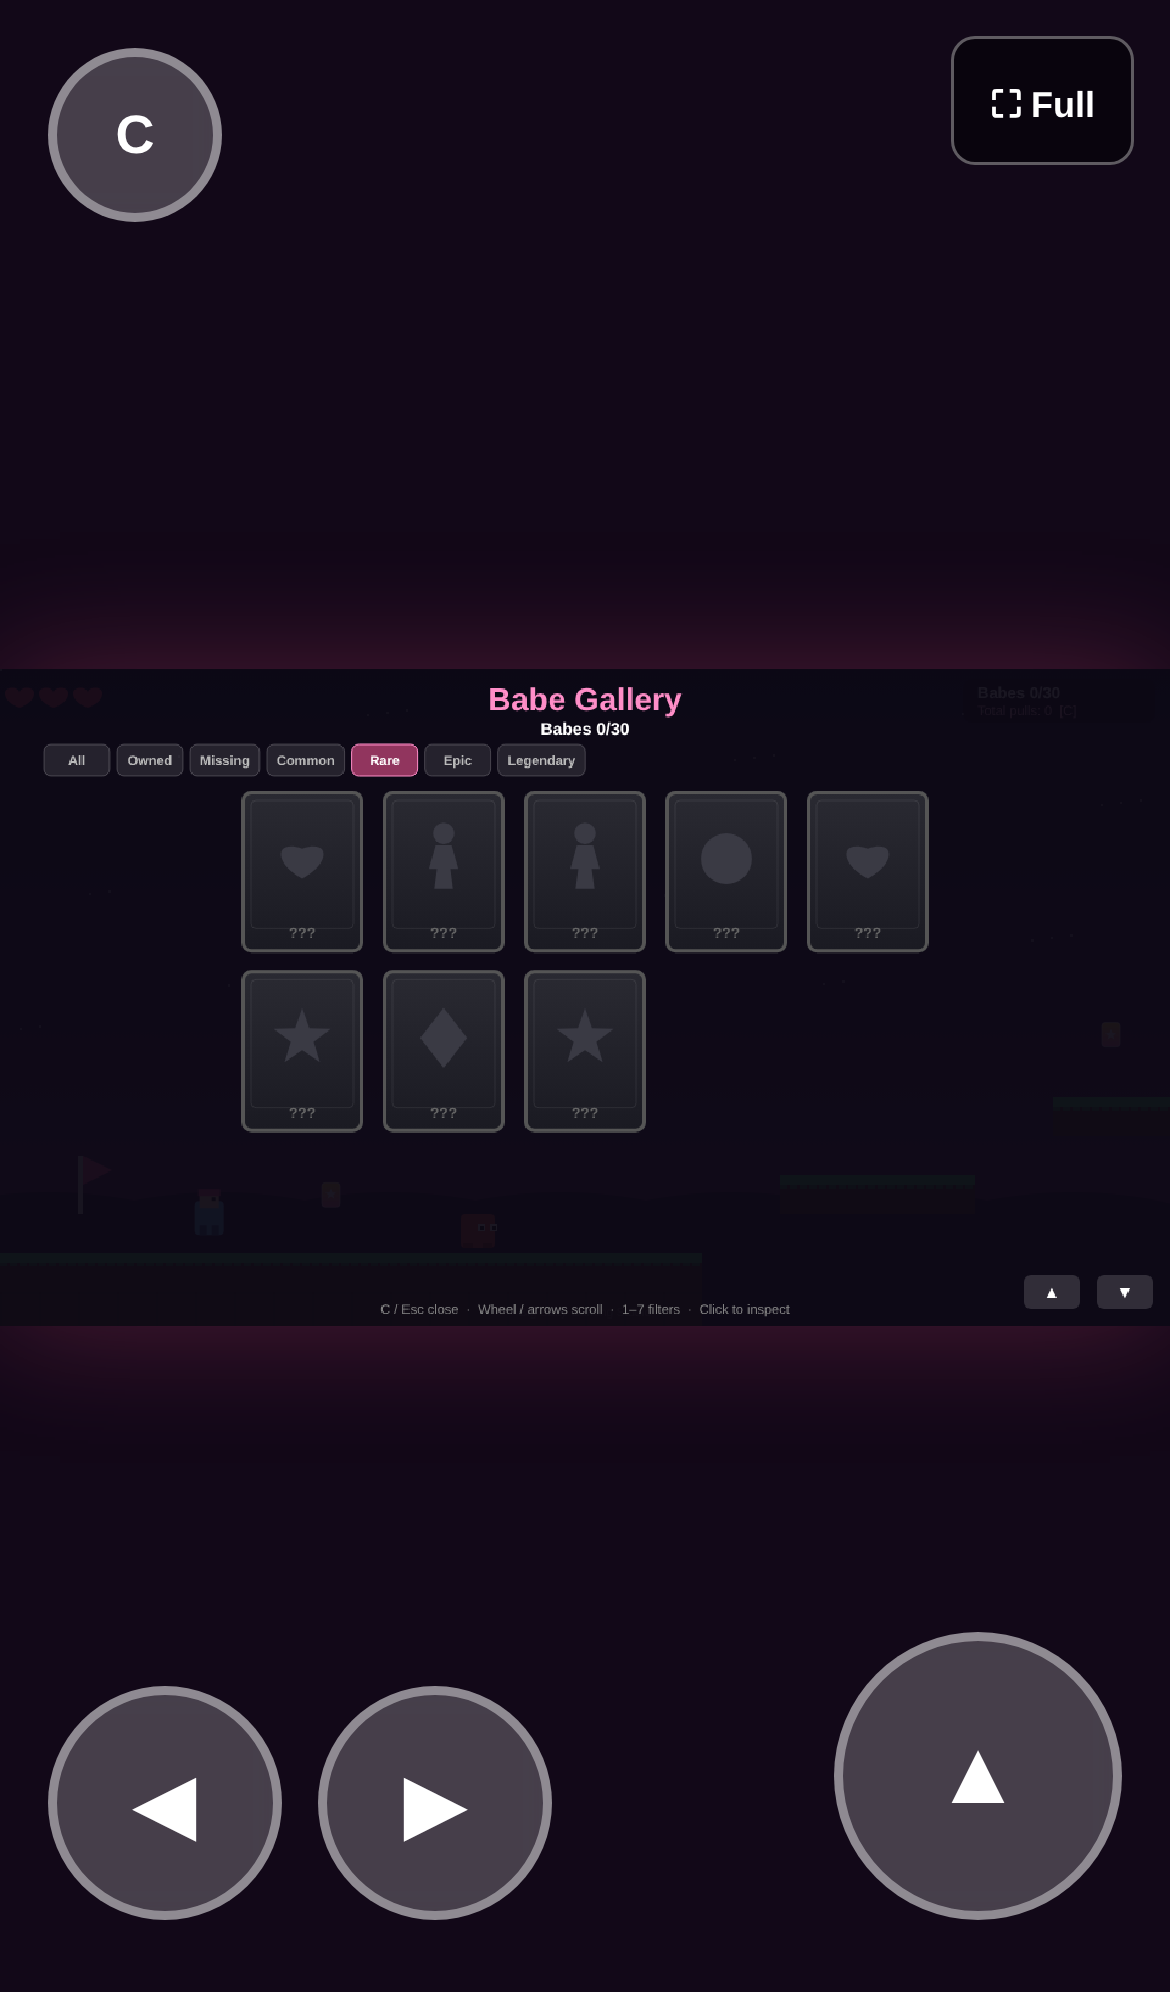
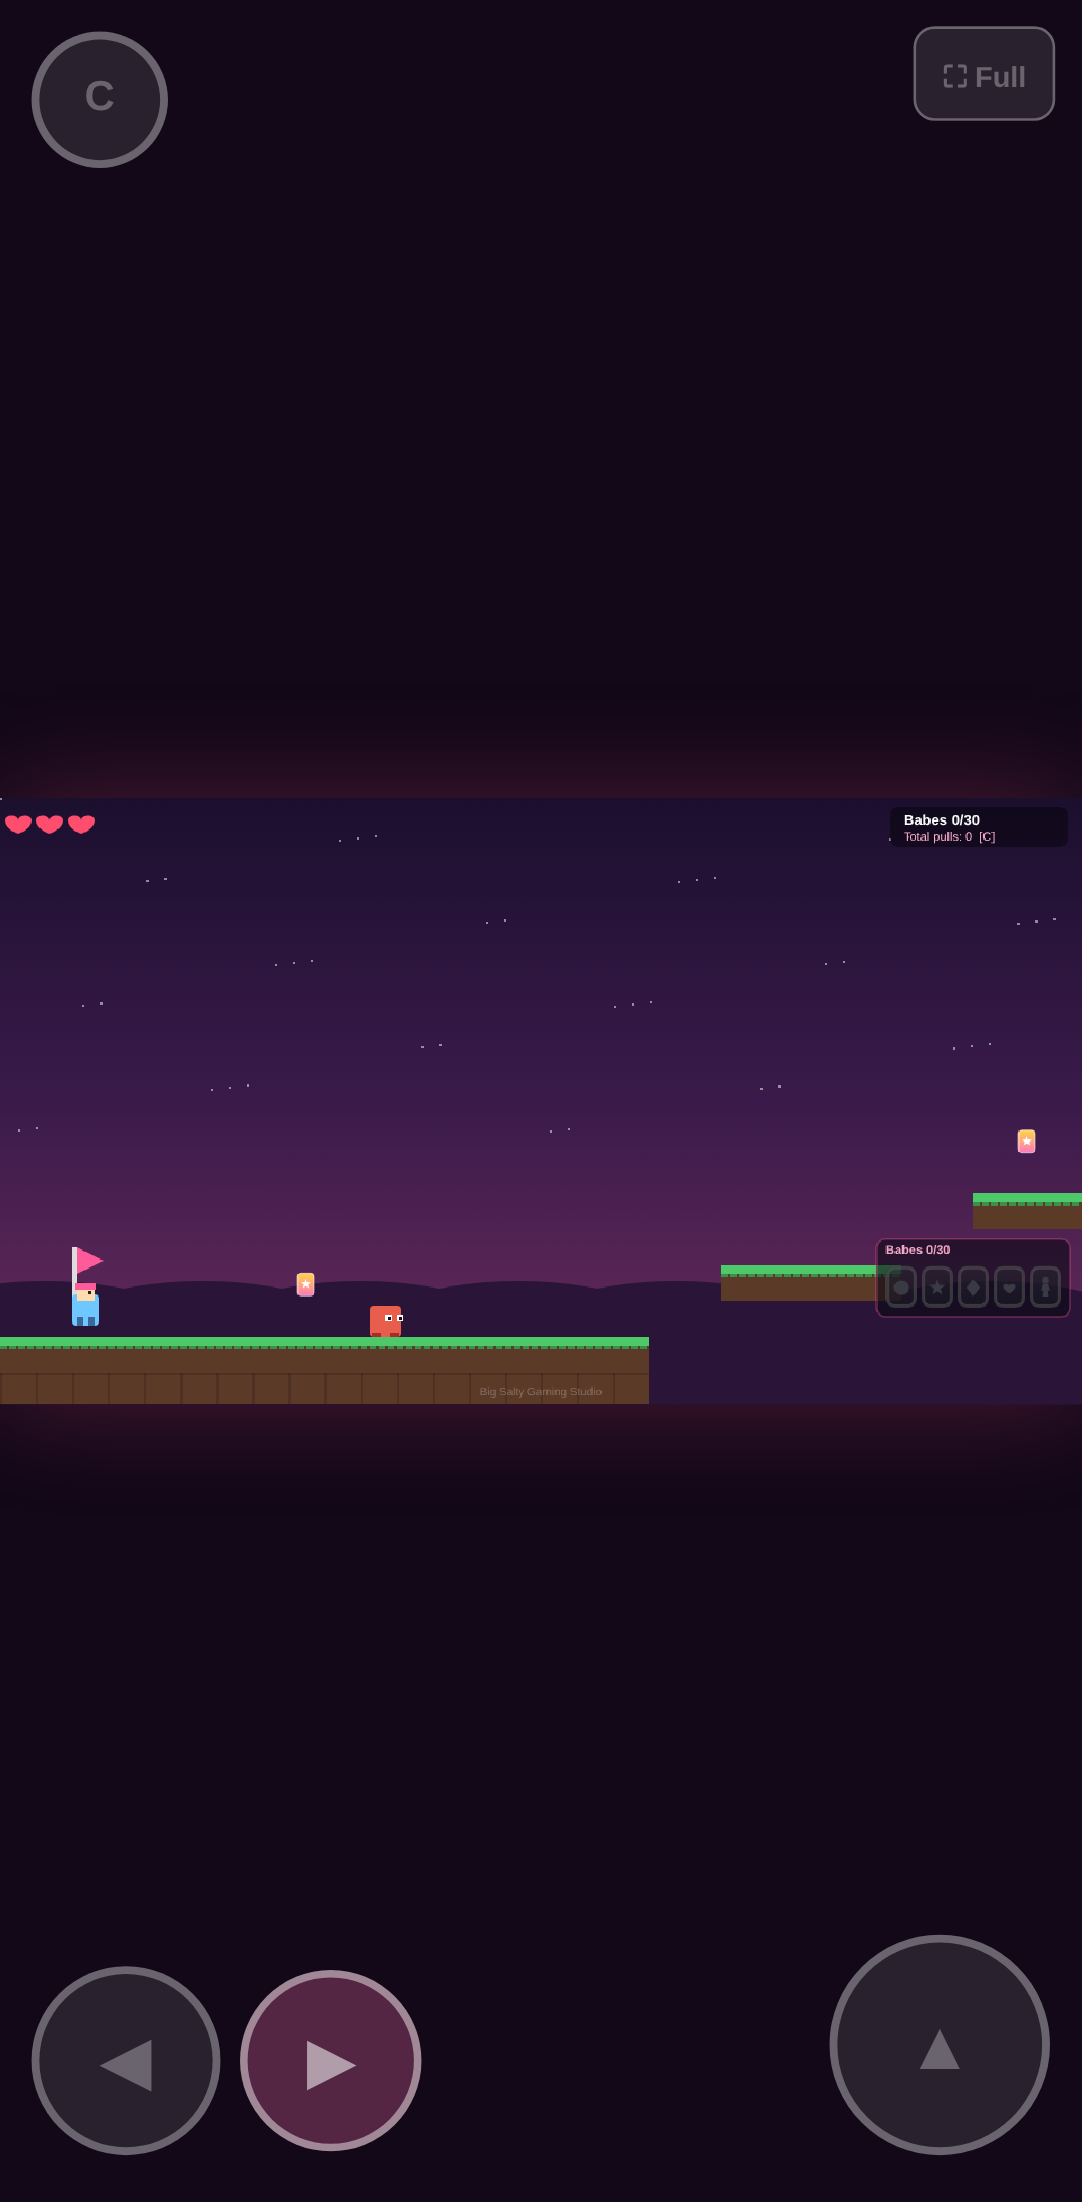
Fix enemy ground/collision, half-height stomp bounce, portrait UX
- Seat enemies on platform tops with gravity + ledge turns (no mid-air float)
- Stomp vs hurt uses prev-frame feet vs enemy top (hopper jump-into feet works)
- Side contact still hurts; reset prevY on respawn
- Stomp bounce half apex height: STOMP_V≈-339, STOMP_V_HELD≈-438 (×√½)
- Remove blocking rotate-phone overlay; title notes portrait or landscape OK
- Portrait button CSS + HUD tray lift; retake mobile shots

diff --git a/index.html b/index.html
@@ -105,34 +105,15 @@
   }
   #fsBtn.show { display: block; }
   #fsBtn:active { background: rgba(255,120,180,0.28); color: rgba(255,255,255,0.55); border-color: rgba(255,255,255,0.45); }
-  #rotateHint {
-    display: none;
-    position: absolute;
-    inset: 0;
-    z-index: 20;
-    background: rgba(18,8,24,0.92);
-    color: #ffb0d0;
-    flex-direction: column;
-    align-items: center;
-    justify-content: center;
-    text-align: center;
-    padding: 24px;
-    pointer-events: auto;
-    touch-action: none;
-  }
-  #rotateHint.show { display: flex; }
-  #rotateHint h2 { color: #ff5a9a; font-size: 22px; margin-bottom: 12px; }
-  #rotateHint p { font-size: 15px; max-width: 280px; line-height: 1.4; }
-  #rotateHint button {
-    margin-top: 18px;
-    padding: 12px 20px;
-    border-radius: 10px;
-    border: 2px solid #ff8ec8;
-    background: rgba(255,90,154,0.35);
-    color: #fff;
-    font-weight: bold;
-    font-size: 15px;
-    touch-action: none;
+  /* Portrait: keep controls usable without blocking the letterboxed canvas */
+  @media (orientation: portrait) {
+    .tbtn { width: 72px; height: 72px; font-size: 24px; }
+    #tJump { width: 84px; height: 84px; font-size: 26px; }
+    #tLeft  { left: max(12px, env(safe-area-inset-left)); bottom: max(18px, env(safe-area-inset-bottom)); }
+    #tRight { left: calc(max(12px, env(safe-area-inset-left)) + 78px); bottom: max(18px, env(safe-area-inset-bottom)); }
+    #tJump  { right: max(12px, env(safe-area-inset-right)); bottom: max(18px, env(safe-area-inset-bottom)); }
+    #tColl  { left: max(12px, env(safe-area-inset-left)); top: max(12px, env(safe-area-inset-top)); width: 52px; height: 52px; font-size: 16px; }
+    #fsBtn  { right: max(10px, env(safe-area-inset-right)); top: max(10px, env(safe-area-inset-top)); font-size: 11px; padding: 6px 10px; }
   }
 </style>
 </head>
@@ -146,11 +127,6 @@
     <button type="button" class="tbtn" id="tColl" aria-label="Babe gallery">C</button>
   </div>
   <button type="button" id="fsBtn" aria-label="Fullscreen">⛶ Full</button>
-  <div id="rotateHint">
-    <h2>Rotate your phone</h2>
-    <p>Hot Babe Collector plays best in landscape. Rotate for bigger controls — or tap below to play in portrait anyway.</p>
-    <button type="button" id="playPortrait">Play in portrait</button>
-  </div>
 </div>
 <script>
 "use strict";
@@ -321,8 +297,6 @@ window.addEventListener("wheel", e => {
 const isTouch = ("ontouchstart" in window) || navigator.maxTouchPoints > 0;
 const touchEl = document.getElementById("touch");
 const fsBtn = document.getElementById("fsBtn");
-const rotateHint = document.getElementById("rotateHint");
-let allowPortraitPlay = false;
 let gallerySwipeY0 = null;
 let gallerySwipeScroll0 = 0;
 
@@ -444,22 +418,8 @@ fsBtn.addEventListener("click", e => {
   if (!document.fullscreenElement && root.requestFullscreen) root.requestFullscreen().catch(() => {});
   else if (document.exitFullscreen) document.exitFullscreen();
 });
-document.getElementById("playPortrait").addEventListener("click", e => {
-  e.preventDefault();
-  allowPortraitPlay = true;
-  updateRotateHint();
-  ensureAudio();
-});
-
-function updateRotateHint() {
-  if (!isTouch) { rotateHint.classList.remove("show"); return; }
-  const portrait = window.innerHeight > window.innerWidth;
-  if (portrait && !allowPortraitPlay) rotateHint.classList.add("show");
-  else rotateHint.classList.remove("show");
-}
 window.addEventListener("orientationchange", () => {
-  allowPortraitPlay = false;
-  setTimeout(() => { fit(); updateRotateHint(); }, 200);
+  setTimeout(() => fit(), 200);
 });
 
 // ---------- Drawing helpers ----------
@@ -712,15 +672,25 @@ function makeCoins() {
 }
 
 // Enemies: type 'walker' | 'hopper'
+function enemyOnPlat(type, xTile, platY, w, h, extra) {
+  const top = platY * TILE;
+  return Object.assign({
+    type, x: xTile * TILE, y: top - h, w, h,
+    vx: 0, vy: 0, dir: 1, alive: true,
+    prevX: xTile * TILE, prevY: top - h,
+  }, extra || {});
+}
+
 function makeEnemies() {
+  // Seated on real platform tops; patrol ranges stay on that surface
   return [
-    { type:"walker", x:10*TILE, y:14*TILE, w:28, h:28, vx:60, dir:1, minX:2*TILE, maxX:16*TILE, alive:true },
-    { type:"walker", x:44*TILE, y:14*TILE, w:28, h:28, vx:70, dir:-1, minX:40*TILE, maxX:50*TILE, alive:true },
-    { type:"hopper", x:30*TILE, y:11*TILE, w:26, h:26, vx:40, dir:1, vy:0, groundY:13*TILE-26, minX:27*TILE, maxX:36*TILE, alive:true, hopT:0 },
-    { type:"walker", x:86*TILE, y:14*TILE, w:28, h:28, vx:80, dir:1, minX:80*TILE, maxX:94*TILE, alive:true },
-    { type:"hopper", x:71*TILE, y:11*TILE-26, w:26, h:26, vx:30, dir:-1, vy:0, groundY:11*TILE-26, minX:69*TILE, maxX:72*TILE, alive:true, hopT:0.5 },
-    { type:"walker", x:110*TILE, y:13*TILE-28, w:28, h:28, vx:55, dir:1, minX:109*TILE, maxX:113*TILE-4, alive:true },
-    { type:"hopper", x:104*TILE, y:15*TILE-26, w:26, h:26, vx:35, dir:1, vy:0, groundY:15*TILE-26, minX:99*TILE, maxX:106*TILE, alive:true, hopT:1.2 },
+    enemyOnPlat("walker", 10, 15, 28, 28, { vx: 60, dir: 1, minX: 2 * TILE, maxX: 16 * TILE }),
+    enemyOnPlat("walker", 44, 15, 28, 28, { vx: 70, dir: -1, minX: 40 * TILE, maxX: 50 * TILE }),
+    enemyOnPlat("hopper", 34, 13, 26, 26, { vx: 40, dir: 1, minX: 33 * TILE, maxX: 39 * TILE, hopT: 0 }),
+    enemyOnPlat("walker", 86, 15, 28, 28, { vx: 80, dir: 1, minX: 80 * TILE, maxX: 94 * TILE }),
+    enemyOnPlat("hopper", 70, 11, 26, 26, { vx: 30, dir: -1, minX: 69 * TILE, maxX: 72 * TILE, hopT: 0.5 }),
+    enemyOnPlat("walker", 110, 13, 28, 28, { vx: 55, dir: 1, minX: 109 * TILE, maxX: 114 * TILE - 4 }),
+    enemyOnPlat("hopper", 102, 15, 26, 26, { vx: 35, dir: 1, minX: 99 * TILE, maxX: 106 * TILE, hopT: 1.2 }),
   ];
 }
 
@@ -733,6 +703,9 @@ const MOVE_MAX = 260;
 const FRICTION = 1800;
 const JUMP_V = -620;
 const JUMP_CUT = 0.45;
+// Stomp bounce: HALF prior apex height → multiply |v| by √(1/2)
+const STOMP_V = -480 * Math.SQRT1_2;       // ~-339.4 (was -480)
+const STOMP_V_HELD = JUMP_V * Math.SQRT1_2; // ~-438.4 (was full JUMP_V)
 // Derived (full held jump): maxJumpH = v^2/(2g) ≈ 87.4px (~2.73 tiles).
 // Level design uses ≤2 tile rises (~64px ≈ 73% of max) for comfort.
 const COYOTE = 0.1;
@@ -776,6 +749,7 @@ const player = {
   vx: 0, vy: 0, onGround: false,
   facing: 1, coyote: 0, jumpBuf: 0,
   anim: 0, flash: 0, stun: 0, stompGrace: 0, fromStomp: false,
+  prevX: 64, prevY: 14 * TILE - 40,
 };
 
 function resetLevel(full) {
@@ -807,6 +781,7 @@ function resetLevel(full) {
   player.vx = 0; player.vy = 0;
   player.onGround = false;
   player.coyote = 0; player.jumpBuf = 0; player.stun = 0; player.stompGrace = 0; player.fromStomp = false;
+  player.prevX = player.x; player.prevY = player.y;
   cameraX = Math.max(0, player.x - W*0.35);
 }
 
@@ -850,6 +825,30 @@ function resolvePlayer(dt) {
 function groundUnder(px, feetY) {
   // Thin probe just below feet — true if a platform would catch a landing
   return !!solidAt(px, feetY, player.w, 6);
+}
+
+/** Platform top near feet supporting [x,x+w]; prefers the highest (smallest Y) match. */
+function platformTopNear(x, w, feetY) {
+  let best = null;
+  for (const p of platforms) {
+    const px = p.x * TILE, py = p.y * TILE, pw = p.w * TILE;
+    const overlap = Math.min(x + w, px + pw) - Math.max(x, px);
+    if (overlap < 6) continue;
+    if (py >= feetY - 4 && py <= feetY + 48) {
+      if (best == null || py < best) best = py;
+    }
+  }
+  if (best == null) {
+    for (const p of platforms) {
+      const px = p.x * TILE, py = p.y * TILE, pw = p.w * TILE;
+      const overlap = Math.min(x + w, px + pw) - Math.max(x, px);
+      if (overlap < 6) continue;
+      if (Math.abs(py - feetY) <= 8) {
+        if (best == null || py < best) best = py;
+      }
+    }
+  }
+  return best;
 }
 
 function hurtPlayer(fromX) {
@@ -1071,40 +1070,57 @@ function updatePlay(dt) {
     }
   }
 
-  // enemies
+  // enemies — gravity + ledge turns (never float mid-air)
   for (const e of enemies) {
     if (!e.alive) continue;
-    if (e.type === "walker") {
-      e.x += e.vx * e.dir * dt;
-      if (e.x < e.minX) { e.x = e.minX; e.dir = 1; }
-      if (e.x + e.w > e.maxX) { e.x = e.maxX - e.w; e.dir = -1; }
-    } else if (e.type === "hopper") {
-      e.hopT += dt;
-      e.x += e.vx * e.dir * dt;
-      if (e.x < e.minX) { e.x = e.minX; e.dir = 1; }
-      if (e.x + e.w > e.maxX) { e.x = e.maxX - e.w; e.dir = -1; }
-      e.vy += GRAV * dt * 0.85;
-      e.y += e.vy * dt;
-      if (e.y >= e.groundY) {
-        e.y = e.groundY;
-        e.vy = 0;
+    e.prevX = e.x;
+    e.prevY = e.y;
+
+    if (e.x < e.minX) { e.x = e.minX; e.dir = 1; }
+    if (e.x + e.w > e.maxX) { e.x = e.maxX - e.w; e.dir = -1; }
+
+    const feetY = e.y + e.h;
+    const aheadX = e.dir > 0 ? e.x + e.w - 2 : e.x - 4;
+    const aheadTop = platformTopNear(aheadX, 6, feetY);
+    if (aheadTop == null || Math.abs(aheadTop - feetY) > 10) e.dir *= -1;
+
+    e.x += e.vx * e.dir * dt;
+    if (e.x < e.minX) { e.x = e.minX; e.dir = 1; }
+    if (e.x + e.w > e.maxX) { e.x = e.maxX - e.w; e.dir = -1; }
+
+    e.vy = (e.vy || 0) + GRAV * dt * (e.type === "hopper" ? 0.85 : 1);
+    e.y += e.vy * dt;
+
+    const top = platformTopNear(e.x, e.w, e.y + e.h);
+    const onGround = top != null && (e.y + e.h) >= top - 1 && (e.y + e.h) <= top + 18 && e.vy >= 0;
+    if (onGround) {
+      e.y = top - e.h;
+      e.vy = 0;
+      if (e.type === "hopper") {
+        e.hopT = (e.hopT || 0) + dt;
         if (e.hopT > 1.1) { e.vy = -520; e.hopT = 0; }
       }
     }
 
     if (!aabb(player, e)) continue;
-    // Mario-style stomp: falling onto top → kill + bounce (no same-frame re-hit)
-    const stomping = player.vy > 40 && (player.y + player.h) <= (e.y + e.h * 0.55);
+
+    // Stomp if player was/is above (prev feet vs prev enemy top), even if enemy jumps up
+    const STOMP_TOL = 8;
+    const prevPlayerBottom = (player.prevY != null ? player.prevY : player.y) + player.h;
+    const prevEnemyTop = e.prevY != null ? e.prevY : e.y;
+    const fromAbove = prevPlayerBottom <= prevEnemyTop + STOMP_TOL;
+    // Vertical-dominant overlap with player clearly above (hopper jump-into-feet)
+    const playerAbove = player.y + player.h <= e.y + e.h * 0.55 && player.y < e.y;
+    const stomping = fromAbove || playerAbove;
+
     if (stomping) {
       e.alive = false;
-      // Sit on its head so we don't re-overlap as a side-hit next frame
       player.y = e.y - player.h;
       player.onGround = false;
-      // Bounce: solid pop; hold jump for full jump height
       const jumpHeld = keys[" "] || keys["arrowup"] || keys["w"];
-      player.vy = jumpHeld ? JUMP_V : -480;
-      player.stompGrace = 0.12; // blocks hurt; allows bounce-chain stomps
-      player.fromStomp = true;  // exempt JUMP_CUT until apex
+      player.vy = jumpHeld ? STOMP_V_HELD : STOMP_V;
+      player.stompGrace = 0.12;
+      player.fromStomp = true;
       player.jumpBuf = 0;
       sfx.stomp();
       spawnParticles(e.x + e.w/2, e.y + e.h/2, e.type === "hopper" ? "#7dff9a" : "#ff8a5b", 12);
@@ -1112,6 +1128,9 @@ function updatePlay(dt) {
       hurtPlayer(e.x + e.w/2);
     }
   }
+
+  player.prevY = player.y;
+  player.prevX = player.x;
 
   // goal
   if (aabb(player, goal)) {
@@ -1176,6 +1195,7 @@ function resetAfterDeath() {
   player.stun = 0;
   player.stompGrace = 0;
   player.fromStomp = false;
+  player.prevX = player.x; player.prevY = player.y;
   // Respawn coins AND enemies at original positions/state (same as level start)
   coins = makeCoins();
   enemies = makeEnemies();
@@ -1377,7 +1397,9 @@ function drawHudLiveBabes() {
   const panelW = pad * 2 + HUD_SLOTS * cw + (HUD_SLOTS - 1) * gap;
   const panelH = pad + counterH + ch + pad;
   const margin = 10;
-  const lift = isTouch ? 130 : 18;
+  // Touch: lift tray above on-screen jump; portrait needs less canvas-space lift (letterbox absorbs chrome)
+  const portrait = window.innerHeight > window.innerWidth;
+  const lift = isTouch ? (portrait ? 78 : 130) : 18;
   const panelX = W - panelW - margin;
   const panelY = H - panelH - lift;
   const step = cw + gap;
@@ -1832,6 +1854,11 @@ function drawTitle() {
   ctx.fillStyle = "#999";
   ctx.font = "12px sans-serif";
   ctx.fillText("←→ / A D move  •  Space / W / ↑ jump  •  C babe gallery", W/2, 420);
+  if (isTouch) {
+    ctx.fillStyle = "#c8a0b8";
+    ctx.font = "13px sans-serif";
+    ctx.fillText("Play in portrait or landscape — whichever you prefer", W/2, 458);
+  }
 }
 
 // Compact collection strip for death / win overlays
@@ -2194,11 +2221,9 @@ function fit() {
   const cssH = Math.max(1, Math.floor(H * r));
   canvas.style.width = cssW + "px";
   canvas.style.height = cssH + "px";
-  updateRotateHint();
 }
 window.addEventListener("resize", () => { fit(); });
 fit();
-updateRotateHint();
 
 resetLevel(true);
 state = "title";

diff --git a/README.md b/README.md
@@ -16,7 +16,7 @@ Single-file game: open `index.html` in Chrome or Safari (double-click works offl
 | Start | Enter / Space on title |
 | Restart (after win) | R or Enter |
 
-On touch devices, large on-screen buttons appear (← → jump, C gallery). Landscape recommended (portrait shows a rotate hint). Tap title/win to start/restart; gallery supports swipe scroll and tap filters.
+On touch devices, large on-screen buttons appear (← → jump, C gallery). Portrait and landscape both work — title screen notes you can use either. Tap title/win to start/restart; gallery supports swipe scroll and tap filters.
 
 ### Mobile / share link
 Open `index.html` (or host the file) on iOS Safari / Android Chrome. Viewport is locked (no zoom); WebAudio unlocks on first tap; optional fullscreen button. Add to Home Screen friendly (`apple-mobile-web-app-capable`).
@@ -28,7 +28,7 @@ Open `index.html` (or host the file) on iOS Safari / Android Chrome. Viewport is
 - **Gallery (C)**: scrollable grid, rarity→name sort, filters All / Owned / Missing / Common / Rare / Epic / Legendary, click for detail.
 - **Collectibles**: **6** babe-coins in the level (sparse). Coins **and enemies** respawn on death.
 - **Coins → babes**: ~1.2s slot roll overlay (gameplay continues); queued pickups; pre-planted result (no snap).
-- **Hearts**: 3 HP. Hit = knockback (~290 px/s away, vy −280) + 0.25s stun + invuln flash. Stomp from above.
+- **Hearts**: 3 HP. Hit = knockback (~290 px/s away, vy −280) + 0.25s stun + invuln flash. Stomp from above = bounce (STOMP_V ≈ −339 / held ≈ −438; half prior apex height) + brief grace. Enemies gravity-snap to platforms and turn at ledges; respawn with coins on death.
 - **Death**: gallery-style scrolled grid (rarity→name) with the lost babe crossed by a pen-stroke red X; owned count in header. Pit = full wipe + lose one babe.
 - **Win**: babes gained this run (scrollable row) + totals.
 - **Save**: `hbc_collection_v1` counts map; also writes `hbc_collection_v2` wrapper (v1 still loaded/migrated).
